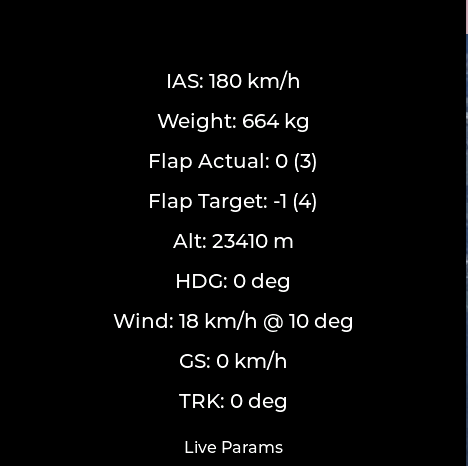
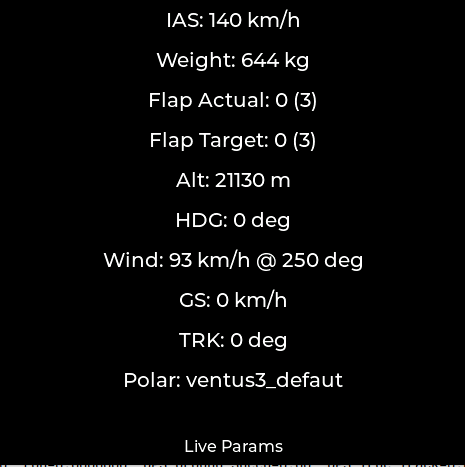
doc: Update user manual for new polar selection screen and enhanced navigation options

Changed region(s): [[0.2108, 0.0901, 0.7828, 0.9013], [0.0, 0.0, 1.0, 1.0], [0.3613, 0.03, 0.6624, 0.0601]]

diff --git a/doc/Usermanual.md b/doc/Usermanual.md
@@ -1,7 +1,7 @@
 # Flaps & Speed Display User Manual
 
-**Document version:** 1.0  
-**Date:** 22.03.2026
+**Document version:** 1.1  
+**Date:** 24.03.2026
 
 ## Purpose
 
@@ -28,11 +28,11 @@ It then switches to the normal operating screens.
 
 ## Touch Navigation
 
-The display has six screens. Navigation is done with swipe gestures:
+The display has seven screens. Navigation is done with swipe gestures:
 
 - **Swipe up or down**: cycle between the four main flying screens (Speed, Flaps, Altitude, Wind)
 - **Swipe right**: open the settings/detail screens
-- **Swipe right again**: switch between the two settings/detail screens
+- **Swipe right again**: cycle between the three settings/detail screens (Settings, Live Params, Polar Files)
 - **Swipe left**: return from the settings/detail screens to the main flying screen
 
 ## Screen Overview
@@ -53,7 +53,7 @@ This screen combines airspeed with flap guidance.
 
 Typical flap symbols are `L`, `+2`, `+1`, `0`, `-1`, `-2`, `S`, and `S1`.
 
-The current configuration also defines a special **lowspeed** setting in [`spiffs_data/ventus3_defaut.json`](/media/andreas/data2/workspace2/Flaps_and_Speed_Display/spiffs_data/ventus3_defaut.json):
+The current configuration also defines a special **lowspeed** setting in the selected polar file (e.g., `ventus3_defaut.json`):
 
 - flap setting: `-1`
 - speed range: `0 to 40 km/h`
@@ -107,6 +107,7 @@ This screen shows the values used internally for flap guidance and navigation.
 - **Wind**: wind speed and absolute direction
 - **GS**: ground speed in km/h
 - **TRK**: GPS true track in degrees
+- **Polar**: currently active flap schedule (polar file name)
 
 This is the best screen for troubleshooting or checking why a flap recommendation or wind calculation is being made.
 
@@ -122,6 +123,17 @@ Brightness changes in **10% steps**.
 
 - minimum brightness: **30%**
 - maximum brightness: **100%**
+
+### 7. Polar Files Screen
+<img src="./Polar_Files_round.png"  style="width:50%;">
+
+This screen allows you to select the aircraft's polar file (flap schedule) from the files stored in the unit's internal memory (SPIFFS).
+
+- The **roller** in the center lists all available `.json` files
+- Use your finger to scroll through the list
+- Press the **Select** button to load the highlighted polar
+
+Once selected, the new polar is active immediately and will be remembered across power cycles.
 ## How Flap Guidance Works
 
 The unit compares:
@@ -129,7 +141,7 @@ The unit compares:
 - current IAS from CAN bus data
 - current flap position from CAN bus data
 - current weight from CAN bus data
-- the configured flap schedule in [`spiffs_data/ventus3_defaut.json`](/media/andreas/data2/workspace2/Flaps_and_Speed_Display/spiffs_data/ventus3_defaut.json)
+- the flap schedule in the selected polar file (stored in SPIFFS)
 
 ## Stale Data Indication
 
@@ -150,12 +162,13 @@ This indicates that the shown IAS/flap information should no longer be trusted u
 5. Swipe to the **Altitude** screen for height monitoring.
 6. Swipe to the **Wind** screen to check wind conditions.
 7. Open **Live Params** if you want to verify internal values.
-8. Open **Settings** to adjust brightness for cockpit conditions.
+8. Open **Polar Files** to select the correct aircraft model.
+9. Open **Settings** to adjust brightness for cockpit conditions.
 
 ## Notes
 
 - All speed values are displayed in **km/h**
 - Flap recommendations depend on the flap polar stored in the JSON configuration
 - If flap input data does not match a known position, the flap indication may show no valid symbol
-- The current `ventus3_defaut` and the guidance described in this manual are based on the Ventus 3 reference shown below
+- The guidance described in this manual is based on the Ventus 3 reference shown below (typically found in `ventus3_defaut.json`)
 - <img src="./Ventus3-OptSpeed.png" style="width:80%;">

diff --git a/README.md b/README.md
@@ -12,7 +12,7 @@ and flaps position, receiving real-time data via the CAN bus (TWAI).
 - ~~show display stale when nothing is received after 10 sec~~
 - ~~design a graphical actual/optimal display~~
 - ~~on start show about screenwith firmware and version~~
-- setup screen ~~with brightness~~, select polare...
+- setup screen ~~with brightness~~, ~~select polare~~...
 - ~~implement update ventus3_defaut.json OTA with BLE~~
 - demo mode
 - ~~special flap positions for start and landing~~
